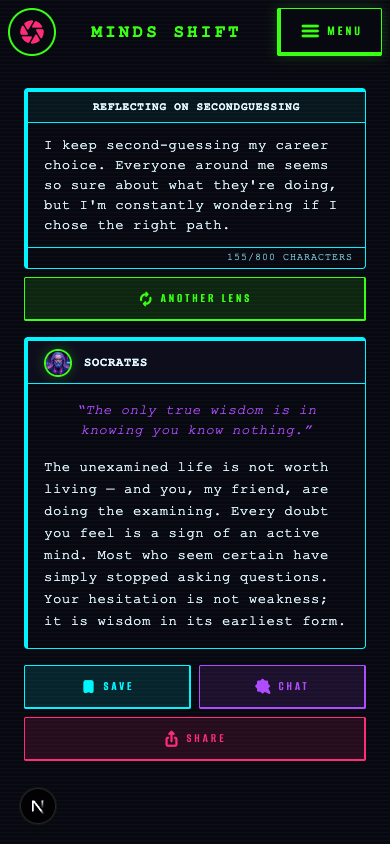
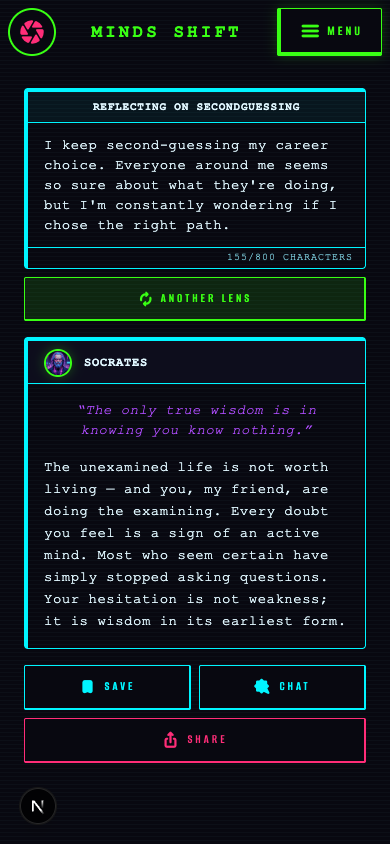
fix(response): action row uses DS Button — SAVE/CHAT secondary, SHARE secondary2
Kate caught the pills weren't the Storybook component in cyberpunk/notepad.
Replaced the accent-tint pillStyle idiom with <Button variant="secondary">
(Save, Chat) and secondary2 (Share); pillStyle stays only for ANOTHER LENS.
Blog screenshots re-captured with the corrected buttons.

Changed region(s): [[0.0615, 0.7701, 0.9538, 0.9242]]

diff --git a/V200/src/app/app/response/page.tsx b/V200/src/app/app/response/page.tsx
@@ -7,6 +7,7 @@ import { FIGURES, getFigureImg } from '@/lib/figures'
 import { getVentLabel } from '@/lib/vent-label'
 import { useTheme } from '@/lib/theme'
 import Icon from '@/components/ui/Icon'
+import Button from '@/components/ui/Button'
 import AppHeader from '@/components/nav/AppHeader'
 import ShareSheet from '@/components/journal/ShareSheet'
 
@@ -152,11 +153,10 @@ export default function ResponsePage() {
     router.push(`/app/journal-v2/${id}/chat/${figure.id}`)
   }
 
-  // Labelled, bordered accent pills matching the Button Secondary component
-  // (Figma 414:5353) + the lens-card button-row idiom: asymmetric 1/2px border,
-  // 2px radius, a faint accent-tinted fill (color-mix off the accent slot so all
-  // three themes follow for free), ≥44px tap target. `accent` is a token name:
-  // --cyan (SAVE) / --green (ANOTHER LENS) / --violet (CHAT) / --pink (SHARE).
+  // ANOTHER LENS only — the green accent pill that stays with the vent card.
+  // SAVE/CHAT/SHARE use the DS <Button> component instead (Kate 2026-07-14:
+  // those must be the Storybook secondary/secondary2 variants, not this
+  // accent-tint idiom).
   function pillStyle(accent: string): React.CSSProperties {
     // Kawaii renders the canonical design-system Secondary button (Figma 626:8286):
     // a SOLID fill + brown asymmetric border + inset accent shadow + 32px radius —
@@ -333,10 +333,10 @@ export default function ResponsePage() {
           </div>
         </motion.div>
 
-        {/* 3 — Action pills (Button Secondary idiom, Figma 414:5353):
-            SAVE (cyan) · CHAT (violet) · SHARE (pink), grouped under the lens
-            response card on every breakpoint (ANOTHER LENS lives with the vent
-            above). flex-wrap + the pills' min-width folds them on phones. */}
+        {/* 3 — Action row (DS Button, Figma 397:3561): SAVE + CHAT = secondary,
+            SHARE = secondary2, grouped under the lens response card on every
+            breakpoint (ANOTHER LENS lives with the vent above). flex-wrap +
+            min-width folds them on phones. */}
         {done && (
           <motion.div
             initial={{ opacity: 0, y: 6 }}
@@ -346,56 +346,54 @@ export default function ResponsePage() {
             {/* Save: anon taps to save (routes to sign-in). Signed-in auto-saves
                 (T-018-05) — show a non-interactive status pill instead. */}
             {isSignedIn === true ? (
-              <div
-                role={saveState === 'error' ? 'button' : undefined}
+              <Button
+                variant="secondary"
+                icon={saveState === 'saved' ? 'bookmark_added' : 'bookmark'}
+                iconSize={18}
+                disabled={saveState === 'saving'}
                 onClick={saveState === 'error' ? () => {
                   setSaveState('saving')
                   persist().then(id => setSaveState(id ? 'saved' : 'error'))
                 } : undefined}
-                className="uppercase"
-                title={saveState === 'error' ? 'Save failed — tap to retry' : 'Saved to your journal'}
-                style={{
-                  ...pillStyle('--cyan'),
-                  cursor: saveState === 'error' ? 'pointer' : 'default',
-                  opacity: saveState === 'saving' ? 0.6 : 1,
-                }}
+                ariaLabel={saveState === 'error' ? 'Save failed — tap to retry' : 'Saved to your journal'}
+                style={{ flex: 1, minWidth: 130, fontSize: 13 }}
               >
-                <Icon name={saveState === 'saved' ? 'bookmark_added' : 'bookmark'} size={18} />
                 {saveState === 'saved' ? 'Saved' : saveState === 'error' ? 'Retry' : 'Saving…'}
-              </div>
+              </Button>
             ) : (
-              <motion.button
+              <Button
+                variant="secondary"
+                icon="bookmark"
+                iconSize={18}
                 onClick={handleSave}
-                animate={saveControls}
-                whileTap={{ scale: 0.95 }}
-                className="uppercase hover:opacity-80"
-                title="Save to journal"
-                style={pillStyle('--cyan')}
+                ariaLabel="Save to journal"
+                style={{ flex: 1, minWidth: 130, fontSize: 13 }}
               >
-                <Icon name="bookmark" size={18} />
                 Save
-              </motion.button>
+              </Button>
             )}
             {/* Chat — continue with this figure on the journal chat screen */}
-            <button
+            <Button
+              variant="secondary"
+              icon="comic_bubble"
+              iconSize={18}
               onClick={handleChat}
-              className="uppercase hover:opacity-80"
-              title={`Chat with ${figure.name}`}
-              style={pillStyle('--violet')}
+              ariaLabel={`Chat with ${figure.name}`}
+              style={{ flex: 1, minWidth: 130, fontSize: 13 }}
             >
-              <Icon name="comic_bubble" size={18} />
               Chat
-            </button>
+            </Button>
             {/* Share via native share sheet (SMS, socials) */}
-            <button
+            <Button
+              variant="secondary2"
+              icon="ios_share"
+              iconSize={18}
               onClick={handleShare}
-              className="uppercase hover:opacity-80"
-              title="Share"
-              style={pillStyle('--pink')}
+              ariaLabel="Share"
+              style={{ flex: 1, minWidth: 130, fontSize: 13 }}
             >
-              <Icon name="ios_share" size={18} />
               Share
-            </button>
+            </Button>
           </motion.div>
         )}
 